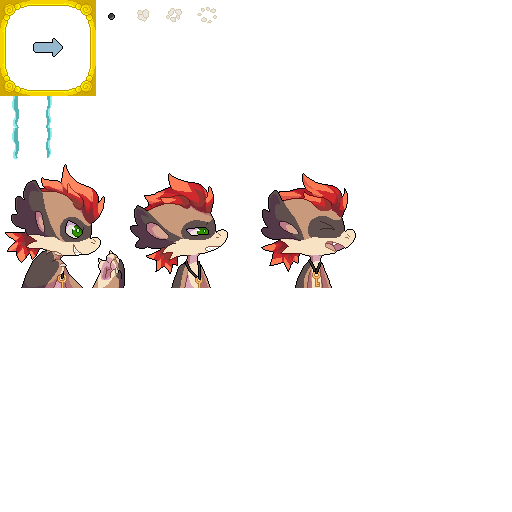
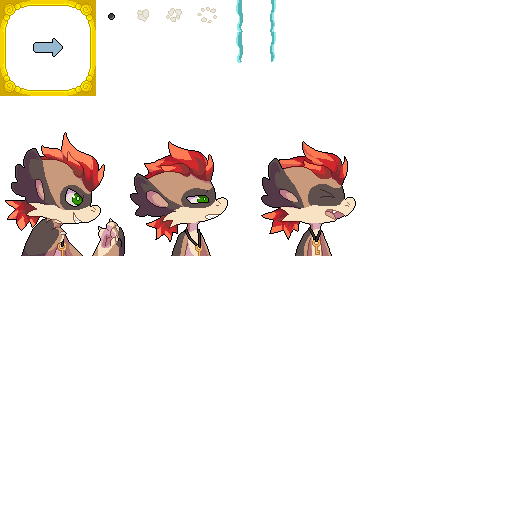
Added character expression for health modification.

diff --git a/src/org/titlepending/client/states/PlayingState.java b/src/org/titlepending/client/states/PlayingState.java
@@ -11,6 +11,7 @@ import org.newdawn.slick.tiled.TiledMap;
 import org.titlepending.client.Client;
 import org.titlepending.client.Updates;
 import org.titlepending.entities.*;
+import org.titlepending.entities.Character;
 import org.titlepending.server.ServerObjects.Ship;
 import org.titlepending.shared.BallUpdater;
 import org.titlepending.shared.CommandObject;
@@ -32,13 +33,15 @@ public class PlayingState extends BasicGameState {
     private int oceanLayer;
     private int whirlpoolLayer;
 
+    private Character character;
+
     private int bounceDelay;
     private int rightDelay;
     private int leftDelay;
     private TargetingComputer cannonsTargeting;
     private TargetReticle reticle;
     private boolean anchor;
-    private static SpriteSheet RSC_32_32;
+
     private static Image topleft;
     private static Image top;
     private static Image topright;
@@ -47,6 +50,8 @@ public class PlayingState extends BasicGameState {
     private static Image bottom;
     private static Image bottomleft;
     private static Image left;
+    private static Image[] Dudeface = new Image[3];
+
     private WindIndicator wind;
 
     public void init(GameContainer container, StateBasedGame game)
@@ -55,7 +60,8 @@ public class PlayingState extends BasicGameState {
         anchor = true;
 
 
-        RSC_32_32 = new SpriteSheet(ResourceManager.getImage(Client.SS2_RSC), 32, 32);
+        SpriteSheet RSC_32_32 = new SpriteSheet(ResourceManager.getImage(Client.SS2_RSC), 32, 32);
+
 
         // Breadown of the RSC_32_32
         topleft = RSC_32_32.getSubImage(0, 0).getScaledCopy(3f);
@@ -73,13 +79,13 @@ public class PlayingState extends BasicGameState {
 
 
 
+
     }
 
     public void enter(GameContainer container, StateBasedGame game)
             throws SlickException{
 
         System.out.println("Made it to the playing state");
-
         bounceDelay =0;
         HashMap<Integer,Ship> ships = Updates.getInstance().getShips();
         this.cannonBalls = new HashMap<>();
@@ -120,6 +126,7 @@ public class PlayingState extends BasicGameState {
         reticle = new TargetReticle(0,0);
         rightDelay=leftDelay=0;
 
+        character = new Character(myBoat.getHealth(), myBoat.getStats()[3],0, 0);
     }
 
     public void render(GameContainer container, StateBasedGame game,
@@ -148,7 +155,9 @@ public class PlayingState extends BasicGameState {
         }
 
         wind.render(g);
+        character.render(g);
         g.popTransform();
+
         int Xsofar;
         int Ysofar = 0;
 
@@ -243,6 +252,9 @@ public class PlayingState extends BasicGameState {
         leftDelay-=delta;
         rightDelay-=delta;
         Input input = container.getInput();
+
+        
+
         boolean changed = false;
         if(input.isKeyDown(Input.KEY_W) && bounceDelay <= 0){
             // Send raise anchor command to server
@@ -343,6 +355,7 @@ public class PlayingState extends BasicGameState {
                     && ball.getPlayerID() != myBoat.getPlayerID()){
                 if(Client.DEBUG) {
                     System.out.println("I got hit bois");
+                    myBoat.setHealth(myBoat.getHealth()-1);
                 }
                 ballUpdater= new BallUpdater(myBoat.getPlayerID());
                 ballUpdater.setBallID(ball.getId());
@@ -377,6 +390,8 @@ public class PlayingState extends BasicGameState {
 
 
         wind.update(myBoat.getX()+800,myBoat.getY()+450);
+        character.setPosition(myBoat.getX()-750,myBoat.getY()+330);
+        character.update(myBoat.getHealth());
 
         if(changed){
             ShipUpdater cmd = new ShipUpdater(Updates.getInstance().getThread().getClientId());

diff --git a/src/org/titlepending/entities/ClientShip.java b/src/org/titlepending/entities/ClientShip.java
@@ -23,6 +23,11 @@ public class ClientShip extends Entity {
     private ConvexPolygon medHitbox;
     private ConvexPolygon lgHitbox;
 
+    private int health;
+    private int lgHullHP;
+    private int medHullHP;
+    private int smHullHP;
+
     private ConvexPolygon headingCircle;
     private Circle detectionCircle;
 
@@ -87,6 +92,10 @@ public class ClientShip extends Entity {
                 new Vector(-37,0),
                 new Vector(-20,-50)
         });
+
+        lgHullHP = 27;
+        medHullHP = 18;
+        smHullHP = 9;
 
         headingCircle = new ConvexPolygon(20);
         addShape(headingCircle, new Vector(0, -288), Color.pink, Color.black);
@@ -184,14 +193,17 @@ public class ClientShip extends Entity {
         // Setting Hull Image and bounding box
         switch (stats[0]) {
             case 2:
+                setHealth(smHullHP);
                 addImage(smallHull);
                 addShape(smHitbox, Color.transparent,Color.transparent);
                 break;
             case 1:
+                setHealth(medHullHP);
                 addImage(medHull);
                 addShape(medHitbox, Color.transparent,Color.transparent);
                 break;
             case 0:
+                setHealth(lgHullHP);
                 addImage(lgHull);
                 addShape(lgHitbox, Color.transparent,Color.transparent);
                 break;
@@ -271,6 +283,14 @@ public class ClientShip extends Entity {
 
     public void setDetectionCircle(Circle detectionCircle) {
         this.detectionCircle = detectionCircle;
+    }
+
+    public int getHealth() {
+        return health;
+    }
+
+    public void setHealth(int health) {
+        this.health = health;
     }
 //
 //    public void imageRotate(){

diff --git a/src/org/titlepending/entities/Character.java b/src/org/titlepending/entities/Character.java
@@ -1,0 +1,43 @@
+package org.titlepending.entities;
+
+import jig.Entity;
+import jig.ResourceManager;
+import org.newdawn.slick.Image;
+import org.newdawn.slick.SpriteSheet;
+import org.titlepending.client.Client;
+
+public class Character extends Entity {
+    int baseHP;
+    SpriteSheet RSC_128_128 = new SpriteSheet(ResourceManager.getImage(Client.SS2_RSC), 128, 128);
+    private Image[] Dudeface;
+
+    public Character (int baseHP, int characterID, float x, float y){
+        super(x, y);
+        this.baseHP = baseHP;
+        Dudeface = new Image[3];
+        Dudeface[0] = RSC_128_128.getSubImage(0, 1).getScaledCopy(3f);
+        Dudeface[1] = RSC_128_128.getSubImage(1, 1).getScaledCopy(3f);
+        Dudeface[2] = RSC_128_128.getSubImage(2, 1).getScaledCopy(3f);
+
+        addImage(Dudeface[0]);
+
+    }
+
+    public void update(int currrentHP){
+
+        System.out.println("My health is: " + currrentHP);
+
+        removeImage(Dudeface[0]);
+        removeImage(Dudeface[1]);
+        removeImage(Dudeface[2]);
+        if(currrentHP > baseHP*2/3) {
+            addImage(Dudeface[0]);
+        } else if(currrentHP <= baseHP*2/3 && currrentHP > baseHP/3){
+            addImage(Dudeface[1]);
+        } else {
+            addImage(Dudeface[2]);
+        }
+
+
+    }
+}
